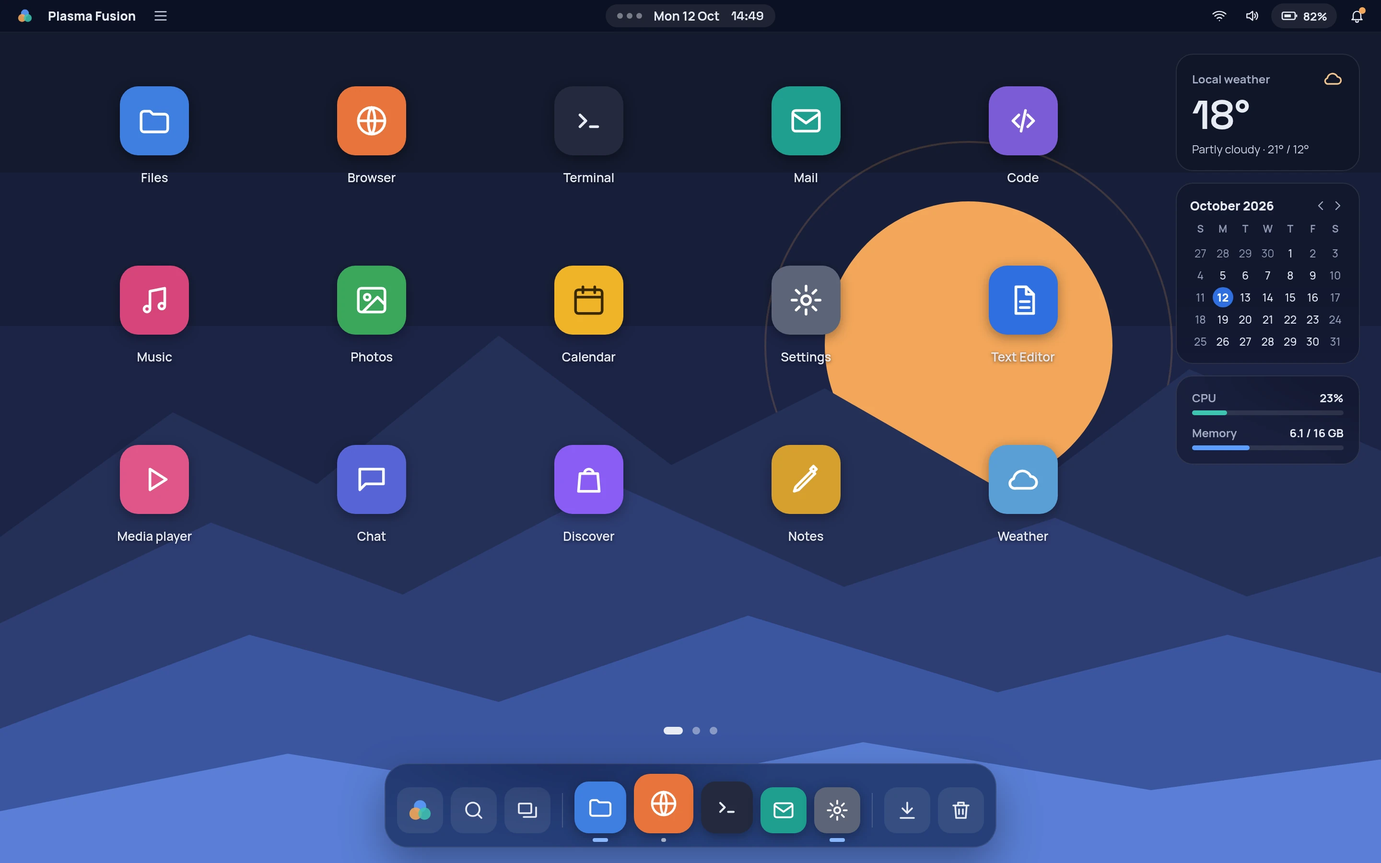
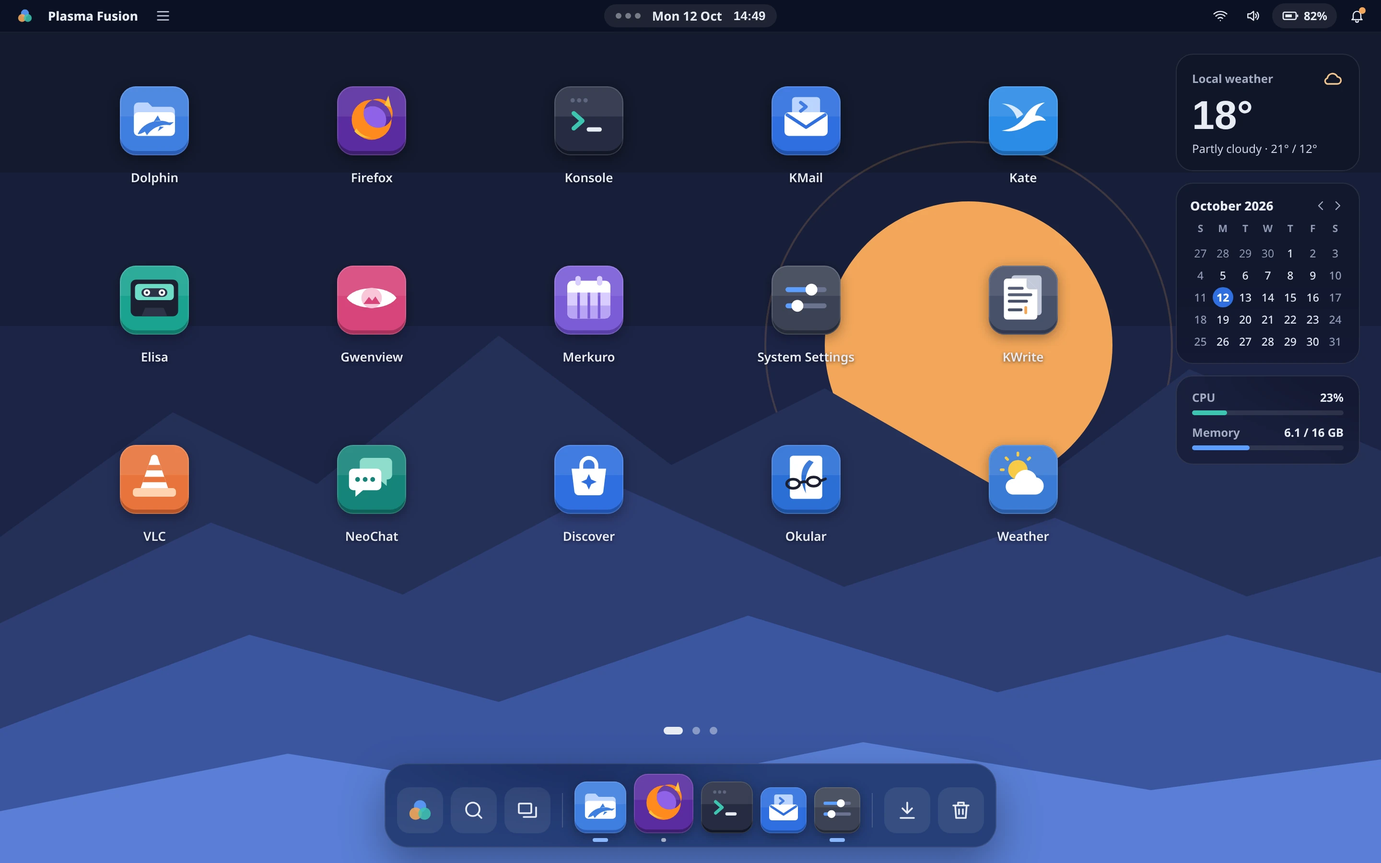
Design: the tablet board draws the redesigned per-app tiles
The first version copied the boards' generic tiles (files, browser,
terminal, ...), which the 2026-10-02 per-app redesign replaced: every app
has its own drawn tile in the same construction (generators/icons/apptiles,
docs/parts/icons.md). The board's grid and dock now embed the real tiles for
the apps it shows (Dolphin, Firefox, Konsole, KMail, Kate, Elisa, Gwenview,
Merkuro, System Settings, KWrite, VLC, NeoChat, Discover, Okular, Weather),
emitted from apptiles.tile_svg() and inlined with one shared sheen gradient;
the preview is re-rendered from them - what the tablet home shows today.

diff --git a/design/boards/Tablet.dc.html b/design/boards/Tablet.dc.html
@@ -15,6 +15,7 @@ a{color:#8ab8ff}a:hover{color:#b9d4ff}
 </head>
 <body>
 <div style="position:relative;width:1440px;height:900px;overflow:hidden;background:#141a2e;color:#e8ebf4;font-size:13px">
+<svg width="0" height="0" aria-hidden="true" style="position:absolute"><defs><linearGradient id="pf-sheen" gradientUnits="userSpaceOnUse" x1="0" y1="0" x2="0" y2="64"><stop offset="0" stop-color="#ffffff" stop-opacity="0.09"/><stop offset="0.4375" stop-color="#ffffff" stop-opacity="0.09"/><stop offset="0.4375" stop-color="#ffffff" stop-opacity="0"/></linearGradient></defs></svg>
 
 <svg width="1440" height="900" viewBox="0 0 1440 900" aria-hidden="true" style="position:absolute;left:0;top:0">
 <rect width="1440" height="900" fill="#141a2e"></rect>
@@ -32,82 +33,81 @@ a{color:#8ab8ff}a:hover{color:#b9d4ff}
 <div aria-label="Home screen, page 1" style="position:absolute;left:48px;top:90px;width:1132px;display:grid;grid-template-columns:repeat(5, minmax(0, 1fr));row-gap:83px;justify-items:center">
 
 <div style="display:flex;flex-direction:column;align-items:center;gap:14px">
-<button aria-label="Files" class="tile" style="width:72px;height:72px;border-radius:19px;background:#3f7fe0;color:#ffffff;display:flex;align-items:center;justify-content:center"><svg class="i" width="37" height="37" viewBox="0 0 24 24"><path d="M3 7.5A2 2 0 0 1 5 5.5h4l2 2h8a2 2 0 0 1 2 2v8a2 2 0 0 1-2 2H5a2 2 0 0 1-2-2z"></path></svg></button>
-<span style="font-size:13px;font-weight:600;text-shadow:0 1px 3px rgba(0,0,0,0.55)">Files</span>
+<button aria-label="Dolphin" class="tile" style="width:72px;height:72px;border-radius:19px"><svg xmlns="http://www.w3.org/2000/svg" width="72" height="72" viewBox="0 0 64 64"><path d="M15 0h34a15 15 0 0 1 15 15v34a15 15 0 0 1 -15 15h-34a15 15 0 0 1 -15 -15v-34a15 15 0 0 1 15 -15z" fill="#2b5db5"/><path d="M15 0h34a15 15 0 0 1 15 15v30a15 15 0 0 1 -15 15h-34a15 15 0 0 1 -15 -15v-30a15 15 0 0 1 15 -15z" fill="#3f7fe0"/><path d="M15 0h34a15 15 0 0 1 15 15v13H0V15A15 15 0 0 1 15 0z" fill="#ffffff" fill-opacity="0.09"/><path d="M13 19a4 4 0 0 1 4-4h9l4 4h17a4 4 0 0 1 4 4v19H13z" fill="#bcd4ff"/><path fill-rule="evenodd" d="M17 24h30a4 4 0 0 1 4 4v14a4 4 0 0 1 -4 4h-30a4 4 0 0 1 -4 -4v-14a4 4 0 0 1 4 -4z" fill="#ffffff"/><path fill-rule="evenodd" d="M16.5 44.5c3-7 10-11.5 18.5-12.5 4-.4 7.5.3 10.5 1.6l4.5-.4-3.4 2.8c-4.4-.7-9 0-13 2-3.6 1.8-6.5 4.4-8.5 7.4l-1.9-3.4c-2.4 1.5-4.6 2.3-6.7 2.5zM31.5 32.6l3.6-5.6 2.8 5.1zM37 37.2l-1.8 4.6 5.6-4.1z" fill="#3f7fe0"/><path d="M16.5 44.5c3-7 10-11.5 18.5-12.5 4-.4 7.5.3 10.5 1.6l4.5-.4-3.4 2.8c-4.4-.7-9 0-13 2-3.6 1.8-6.5 4.4-8.5 7.4l-1.9-3.4c-2.4 1.5-4.6 2.3-6.7 2.5zM31.5 32.6l3.6-5.6 2.8 5.1zM37 37.2l-1.8 4.6 5.6-4.1z" fill="url(#pf-sheen)" fill-rule="evenodd"/><path d="M15 0.5h34a14.5 14.5 0 0 1 14.5 14.5v34a14.5 14.5 0 0 1 -14.5 14.5h-34a14.5 14.5 0 0 1 -14.5 -14.5v-34a14.5 14.5 0 0 1 14.5 -14.5z" fill="none" stroke="#ffffff" stroke-opacity="0.14" stroke-width="1" stroke-linecap="butt" stroke-linejoin="miter"/></svg></button>
+<span style="font-size:13px;font-weight:600;text-shadow:0 1px 3px rgba(0,0,0,0.55)">Dolphin</span>
 </div>
 
 <div style="display:flex;flex-direction:column;align-items:center;gap:14px">
-<button aria-label="Browser" class="tile" style="width:72px;height:72px;border-radius:19px;background:#e8743b;color:#ffffff;display:flex;align-items:center;justify-content:center"><svg class="i" width="37" height="37" viewBox="0 0 24 24"><path d="M3 12a9 9 0 1 0 18 0a9 9 0 1 0-18 0M3 12h18M12 3c3 3.5 3 14.5 0 18M12 3c-3 3.5-3 14.5 0 18"></path></svg></button>
-<span style="font-size:13px;font-weight:600;text-shadow:0 1px 3px rgba(0,0,0,0.55)">Browser</span>
+<button aria-label="Firefox" class="tile" style="width:72px;height:72px;border-radius:19px"><svg xmlns="http://www.w3.org/2000/svg" width="72" height="72" viewBox="0 0 64 64"><path d="M15 0h34a15 15 0 0 1 15 15v34a15 15 0 0 1 -15 15h-34a15 15 0 0 1 -15 -15v-34a15 15 0 0 1 15 -15z" fill="#3e1e70"/><path d="M15 0h34a15 15 0 0 1 15 15v30a15 15 0 0 1 -15 15h-34a15 15 0 0 1 -15 -15v-30a15 15 0 0 1 15 -15z" fill="#5a2ca0"/><path d="M15 0h34a15 15 0 0 1 15 15v13H0V15A15 15 0 0 1 15 0z" fill="#ffffff" fill-opacity="0.09"/><path d="M20.5 31a12.5 12.5 0 1 0 25 0a12.5 12.5 0 1 0 -25 0z" fill="#8f63e8"/><path fill-rule="evenodd" d="M13.5 31a18.5 18.5 0 1 0 37 0a18.5 18.5 0 1 0 -37 0zM24.5 25a13.5 13.5 0 1 0 27 0a13.5 13.5 0 1 0 -27 0z" fill="#ff8a1f"/><path fill-rule="evenodd" d="M44 17.5l3.5-9 2.5 11zM18 39c3 5 8 8 14 8.5-7 1-13-2-16-6z" fill="#ffc23d"/><path d="M15 0.5h34a14.5 14.5 0 0 1 14.5 14.5v34a14.5 14.5 0 0 1 -14.5 14.5h-34a14.5 14.5 0 0 1 -14.5 -14.5v-34a14.5 14.5 0 0 1 14.5 -14.5z" fill="none" stroke="#ffffff" stroke-opacity="0.14" stroke-width="1" stroke-linecap="butt" stroke-linejoin="miter"/></svg></button>
+<span style="font-size:13px;font-weight:600;text-shadow:0 1px 3px rgba(0,0,0,0.55)">Firefox</span>
 </div>
 
 <div style="display:flex;flex-direction:column;align-items:center;gap:14px">
-<button aria-label="Terminal" class="tile" style="width:72px;height:72px;border-radius:19px;background:#23293d;color:#e8ebf4;display:flex;align-items:center;justify-content:center"><svg class="i" width="37" height="37" viewBox="0 0 24 24"><path d="M6 8l4 4-4 4M13 16h5"></path></svg></button>
-<span style="font-size:13px;font-weight:600;text-shadow:0 1px 3px rgba(0,0,0,0.55)">Terminal</span>
+<button aria-label="Konsole" class="tile" style="width:72px;height:72px;border-radius:19px"><svg xmlns="http://www.w3.org/2000/svg" width="72" height="72" viewBox="0 0 64 64"><path d="M15 0h34a15 15 0 0 1 15 15v34a15 15 0 0 1 -15 15h-34a15 15 0 0 1 -15 -15v-34a15 15 0 0 1 15 -15z" fill="#131726"/><path d="M15 0h34a15 15 0 0 1 15 15v30a15 15 0 0 1 -15 15h-34a15 15 0 0 1 -15 -15v-30a15 15 0 0 1 15 -15z" fill="#262c42"/><path d="M15 0h34a15 15 0 0 1 15 15v13H0V15A15 15 0 0 1 15 0z" fill="#ffffff" fill-opacity="0.09"/><path d="M32 38h10a2 2 0 0 1 2 2v0a2 2 0 0 1 -2 2h-10a2 2 0 0 1 -2 -2v0a2 2 0 0 1 2 -2z" fill="#e8ebf4"/><path fill-rule="evenodd" d="M15 13a2 2 0 1 0 4 0a2 2 0 1 0 -4 0zM21 13a2 2 0 1 0 4 0a2 2 0 1 0 -4 0zM27 13a2 2 0 1 0 4 0a2 2 0 1 0 -4 0z" fill="#5d6680"/><path d="M18 25l8 7-8 7" fill="none" stroke="#3cc4b0" stroke-width="4" stroke-linecap="round" stroke-linejoin="round"/><path d="M15 0.5h34a14.5 14.5 0 0 1 14.5 14.5v34a14.5 14.5 0 0 1 -14.5 14.5h-34a14.5 14.5 0 0 1 -14.5 -14.5v-34a14.5 14.5 0 0 1 14.5 -14.5z" fill="none" stroke="#ffffff" stroke-opacity="0.14" stroke-width="1" stroke-linecap="butt" stroke-linejoin="miter"/></svg></button>
+<span style="font-size:13px;font-weight:600;text-shadow:0 1px 3px rgba(0,0,0,0.55)">Konsole</span>
 </div>
 
 <div style="display:flex;flex-direction:column;align-items:center;gap:14px">
-<button aria-label="Mail" class="tile" style="width:72px;height:72px;border-radius:19px;background:#1f9e8f;color:#ffffff;display:flex;align-items:center;justify-content:center"><svg class="i" width="37" height="37" viewBox="0 0 24 24"><path d="M5 5h14a2 2 0 0 1 2 2v10a2 2 0 0 1-2 2H5a2 2 0 0 1-2-2V7a2 2 0 0 1 2-2zM3.5 7.5l8.5 6 8.5-6"></path></svg></button>
-<span style="font-size:13px;font-weight:600;text-shadow:0 1px 3px rgba(0,0,0,0.55)">Mail</span>
+<button aria-label="KMail" class="tile" style="width:72px;height:72px;border-radius:19px"><svg xmlns="http://www.w3.org/2000/svg" width="72" height="72" viewBox="0 0 64 64"><path d="M15 0h34a15 15 0 0 1 15 15v34a15 15 0 0 1 -15 15h-34a15 15 0 0 1 -15 -15v-34a15 15 0 0 1 15 -15z" fill="#2152ad"/><path d="M15 0h34a15 15 0 0 1 15 15v30a15 15 0 0 1 -15 15h-34a15 15 0 0 1 -15 -15v-30a15 15 0 0 1 15 -15z" fill="#2f6fdf"/><path d="M15 0h34a15 15 0 0 1 15 15v13H0V15A15 15 0 0 1 15 0z" fill="#ffffff" fill-opacity="0.09"/><path d="M22 10h20a3 3 0 0 1 3 3v18a3 3 0 0 1 -3 3h-20a3 3 0 0 1 -3 -3v-18a3 3 0 0 1 3 -3z" fill="#bcd4ff"/><path fill-rule="evenodd" d="M16 24h32a4 4 0 0 1 4 4v14a4 4 0 0 1 -4 4h-32a4 4 0 0 1 -4 -4v-14a4 4 0 0 1 4 -4z" fill="#ffffff"/><path d="M14.5 26.5 32 38l17.5-11.5M27 15l5 4-5 4" fill="none" stroke="#2f6fdf" stroke-width="3" stroke-linecap="round" stroke-linejoin="round"/><path d="M14.5 26.5 32 38l17.5-11.5M27 15l5 4-5 4" fill="none" stroke="url(#pf-sheen)" stroke-width="3" stroke-linecap="round" stroke-linejoin="round"/><path d="M15 0.5h34a14.5 14.5 0 0 1 14.5 14.5v34a14.5 14.5 0 0 1 -14.5 14.5h-34a14.5 14.5 0 0 1 -14.5 -14.5v-34a14.5 14.5 0 0 1 14.5 -14.5z" fill="none" stroke="#ffffff" stroke-opacity="0.14" stroke-width="1" stroke-linecap="butt" stroke-linejoin="miter"/></svg></button>
+<span style="font-size:13px;font-weight:600;text-shadow:0 1px 3px rgba(0,0,0,0.55)">KMail</span>
 </div>
 
 <div style="display:flex;flex-direction:column;align-items:center;gap:14px">
-<button aria-label="Code" class="tile" style="width:72px;height:72px;border-radius:19px;background:#7b5cd6;color:#ffffff;display:flex;align-items:center;justify-content:center"><svg class="i" width="37" height="37" viewBox="0 0 24 24"><path d="M9 8l-4 4 4 4M15 8l4 4-4 4M13.5 5l-3 14"></path></svg></button>
-<span style="font-size:13px;font-weight:600;text-shadow:0 1px 3px rgba(0,0,0,0.55)">Code</span>
+<button aria-label="Kate" class="tile" style="width:72px;height:72px;border-radius:19px"><svg xmlns="http://www.w3.org/2000/svg" width="72" height="72" viewBox="0 0 64 64"><path d="M15 0h34a15 15 0 0 1 15 15v34a15 15 0 0 1 -15 15h-34a15 15 0 0 1 -15 -15v-34a15 15 0 0 1 15 -15z" fill="#1f68b3"/><path d="M15 0h34a15 15 0 0 1 15 15v30a15 15 0 0 1 -15 15h-34a15 15 0 0 1 -15 -15v-30a15 15 0 0 1 15 -15z" fill="#2b8be6"/><path d="M15 0h34a15 15 0 0 1 15 15v13H0V15A15 15 0 0 1 15 0z" fill="#ffffff" fill-opacity="0.09"/><path d="M12 41c9-1 17-6 22-14 4-6 9-11 18-12-5 3-8 7-9 12 5 0 8 2 10 5-6-1-11 0-15 3-7 5-16 8-26 6z" fill="#ffffff"/><path fill-rule="evenodd" d="M26 30c-2-7-7-12-14-14 9 0 16 4 20 10z" fill="#d6e8fb"/><path d="M15 0.5h34a14.5 14.5 0 0 1 14.5 14.5v34a14.5 14.5 0 0 1 -14.5 14.5h-34a14.5 14.5 0 0 1 -14.5 -14.5v-34a14.5 14.5 0 0 1 14.5 -14.5z" fill="none" stroke="#ffffff" stroke-opacity="0.14" stroke-width="1" stroke-linecap="butt" stroke-linejoin="miter"/></svg></button>
+<span style="font-size:13px;font-weight:600;text-shadow:0 1px 3px rgba(0,0,0,0.55)">Kate</span>
 </div>
 
 <div style="display:flex;flex-direction:column;align-items:center;gap:14px">
-<button aria-label="Music" class="tile" style="width:72px;height:72px;border-radius:19px;background:#d6457a;color:#ffffff;display:flex;align-items:center;justify-content:center"><svg class="i" width="37" height="37" viewBox="0 0 24 24"><path d="M9 18V6l10-2v12M5 18a2 2 0 1 0 4 0a2 2 0 1 0-4 0M15 16a2 2 0 1 0 4 0a2 2 0 1 0-4 0"></path></svg></button>
-<span style="font-size:13px;font-weight:600;text-shadow:0 1px 3px rgba(0,0,0,0.55)">Music</span>
+<button aria-label="Elisa" class="tile" style="width:72px;height:72px;border-radius:19px"><svg xmlns="http://www.w3.org/2000/svg" width="72" height="72" viewBox="0 0 64 64"><path d="M15 0h34a15 15 0 0 1 15 15v34a15 15 0 0 1 -15 15h-34a15 15 0 0 1 -15 -15v-34a15 15 0 0 1 15 -15z" fill="#127a6c"/><path d="M15 0h34a15 15 0 0 1 15 15v30a15 15 0 0 1 -15 15h-34a15 15 0 0 1 -15 -15v-30a15 15 0 0 1 15 -15z" fill="#1aa391"/><path d="M15 0h34a15 15 0 0 1 15 15v13H0V15A15 15 0 0 1 15 0z" fill="#ffffff" fill-opacity="0.09"/><path d="M15 13h34a5 5 0 0 1 5 5v24a5 5 0 0 1 -5 5h-34a5 5 0 0 1 -5 -5v-24a5 5 0 0 1 5 -5z" fill="#1b2031"/><path fill-rule="evenodd" d="M17.5 17h29a3.5 3.5 0 0 1 3.5 3.5v8a3.5 3.5 0 0 1 -3.5 3.5h-29a3.5 3.5 0 0 1 -3.5 -3.5v-8a3.5 3.5 0 0 1 3.5 -3.5z" fill="#6fdcc8"/><path fill-rule="evenodd" d="M24 21h16a4 4 0 0 1 4 4v0a4 4 0 0 1 -4 4h-16a4 4 0 0 1 -4 -4v0a4 4 0 0 1 4 -4zM20 47l3.5-8h17l3.5 8z" fill="#2c3348"/><path d="M22 25a3 3 0 1 0 6 0a3 3 0 1 0 -6 0zM36 25a3 3 0 1 0 6 0a3 3 0 1 0 -6 0z" fill="#ffffff"/><path d="M23.8 25a1.2 1.2 0 1 0 2.4 0a1.2 1.2 0 1 0 -2.4 0zM37.8 25a1.2 1.2 0 1 0 2.4 0a1.2 1.2 0 1 0 -2.4 0z" fill="#2c3348"/><path d="M15 0.5h34a14.5 14.5 0 0 1 14.5 14.5v34a14.5 14.5 0 0 1 -14.5 14.5h-34a14.5 14.5 0 0 1 -14.5 -14.5v-34a14.5 14.5 0 0 1 14.5 -14.5z" fill="none" stroke="#ffffff" stroke-opacity="0.14" stroke-width="1" stroke-linecap="butt" stroke-linejoin="miter"/></svg></button>
+<span style="font-size:13px;font-weight:600;text-shadow:0 1px 3px rgba(0,0,0,0.55)">Elisa</span>
 </div>
 
 <div style="display:flex;flex-direction:column;align-items:center;gap:14px">
-<button aria-label="Photos" class="tile" style="width:72px;height:72px;border-radius:19px;background:#3aa65b;color:#ffffff;display:flex;align-items:center;justify-content:center"><svg class="i" width="37" height="37" viewBox="0 0 24 24"><path d="M5 4h14a2 2 0 0 1 2 2v12a2 2 0 0 1-2 2H5a2 2 0 0 1-2-2V6a2 2 0 0 1 2-2zM7 10a2 2 0 1 0 4 0a2 2 0 1 0-4 0M21 15l-5-5-10 10"></path></svg></button>
-<span style="font-size:13px;font-weight:600;text-shadow:0 1px 3px rgba(0,0,0,0.55)">Photos</span>
+<button aria-label="Gwenview" class="tile" style="width:72px;height:72px;border-radius:19px"><svg xmlns="http://www.w3.org/2000/svg" width="72" height="72" viewBox="0 0 64 64"><path d="M15 0h34a15 15 0 0 1 15 15v34a15 15 0 0 1 -15 15h-34a15 15 0 0 1 -15 -15v-34a15 15 0 0 1 15 -15z" fill="#a8325d"/><path d="M15 0h34a15 15 0 0 1 15 15v30a15 15 0 0 1 -15 15h-34a15 15 0 0 1 -15 -15v-30a15 15 0 0 1 15 -15z" fill="#d6457a"/><path d="M15 0h34a15 15 0 0 1 15 15v13H0V15A15 15 0 0 1 15 0z" fill="#ffffff" fill-opacity="0.09"/><path d="M9 30c8-12 38-12 46 0-8 12-38 12-46 0z" fill="#ffffff"/><path fill-rule="evenodd" d="M22.5 30a9.5 9.5 0 1 0 19 0a9.5 9.5 0 1 0 -19 0z" fill="#f8c6d8"/><path fill-rule="evenodd" d="M24.5 35.5l5-6.5 3 3.5 3-4 4.5 7z" fill="#d6457a"/><path d="M24.5 35.5l5-6.5 3 3.5 3-4 4.5 7z" fill="url(#pf-sheen)" fill-rule="evenodd"/><path d="M15 0.5h34a14.5 14.5 0 0 1 14.5 14.5v34a14.5 14.5 0 0 1 -14.5 14.5h-34a14.5 14.5 0 0 1 -14.5 -14.5v-34a14.5 14.5 0 0 1 14.5 -14.5z" fill="none" stroke="#ffffff" stroke-opacity="0.14" stroke-width="1" stroke-linecap="butt" stroke-linejoin="miter"/></svg></button>
+<span style="font-size:13px;font-weight:600;text-shadow:0 1px 3px rgba(0,0,0,0.55)">Gwenview</span>
 </div>
 
 <div style="display:flex;flex-direction:column;align-items:center;gap:14px">
-<button aria-label="Calendar" class="tile" style="width:72px;height:72px;border-radius:19px;background:#f0b429;color:#3a2a00;display:flex;align-items:center;justify-content:center"><svg class="i" width="37" height="37" viewBox="0 0 24 24"><path d="M5 5h14a2 2 0 0 1 2 2v12a2 2 0 0 1-2 2H5a2 2 0 0 1-2-2V7a2 2 0 0 1 2-2zM3 10h18M8 3v4M16 3v4"></path></svg></button>
-<span style="font-size:13px;font-weight:600;text-shadow:0 1px 3px rgba(0,0,0,0.55)">Calendar</span>
+<button aria-label="Merkuro" class="tile" style="width:72px;height:72px;border-radius:19px"><svg xmlns="http://www.w3.org/2000/svg" width="72" height="72" viewBox="0 0 64 64"><path d="M15 0h34a15 15 0 0 1 15 15v34a15 15 0 0 1 -15 15h-34a15 15 0 0 1 -15 -15v-34a15 15 0 0 1 15 -15z" fill="#5a40a8"/><path d="M15 0h34a15 15 0 0 1 15 15v30a15 15 0 0 1 -15 15h-34a15 15 0 0 1 -15 -15v-30a15 15 0 0 1 15 -15z" fill="#7b5cd6"/><path d="M15 0h34a15 15 0 0 1 15 15v13H0V15A15 15 0 0 1 15 0z" fill="#ffffff" fill-opacity="0.09"/><path d="M17 14h30a5 5 0 0 1 5 5v25a5 5 0 0 1 -5 5h-30a5 5 0 0 1 -5 -5v-25a5 5 0 0 1 5 -5z" fill="#ffffff"/><path fill-rule="evenodd" d="M12 25H52V44a5 5 0 0 1-5 5H17a5 5 0 0 1-5-5z" fill="#d9ccff"/><path fill-rule="evenodd" d="M12 37H52V44a5 5 0 0 1-5 5H17a5 5 0 0 1-5-5z" fill="#b8a4f4"/><path d="M21.3 25h2.4a0 0 0 0 1 0 0v24a0 0 0 0 1 0 0h-2.4a0 0 0 0 1 0 0v-24a0 0 0 0 1 0 0zM30.8 25h2.4a0 0 0 0 1 0 0v24a0 0 0 0 1 0 0h-2.4a0 0 0 0 1 0 0v-24a0 0 0 0 1 0 0zM40.3 25h2.4a0 0 0 0 1 0 0v24a0 0 0 0 1 0 0h-2.4a0 0 0 0 1 0 0v-24a0 0 0 0 1 0 0z" fill="#7b5cd6"/><path d="M22 9.5h0a2.5 2.5 0 0 1 2.5 2.5v4a2.5 2.5 0 0 1 -2.5 2.5h0a2.5 2.5 0 0 1 -2.5 -2.5v-4a2.5 2.5 0 0 1 2.5 -2.5zM42 9.5h0a2.5 2.5 0 0 1 2.5 2.5v4a2.5 2.5 0 0 1 -2.5 2.5h0a2.5 2.5 0 0 1 -2.5 -2.5v-4a2.5 2.5 0 0 1 2.5 -2.5z" fill="#d9ccff"/><path d="M21.3 25h2.4a0 0 0 0 1 0 0v24a0 0 0 0 1 0 0h-2.4a0 0 0 0 1 0 0v-24a0 0 0 0 1 0 0zM30.8 25h2.4a0 0 0 0 1 0 0v24a0 0 0 0 1 0 0h-2.4a0 0 0 0 1 0 0v-24a0 0 0 0 1 0 0zM40.3 25h2.4a0 0 0 0 1 0 0v24a0 0 0 0 1 0 0h-2.4a0 0 0 0 1 0 0v-24a0 0 0 0 1 0 0z" fill="url(#pf-sheen)"/><path d="M15 0.5h34a14.5 14.5 0 0 1 14.5 14.5v34a14.5 14.5 0 0 1 -14.5 14.5h-34a14.5 14.5 0 0 1 -14.5 -14.5v-34a14.5 14.5 0 0 1 14.5 -14.5z" fill="none" stroke="#ffffff" stroke-opacity="0.14" stroke-width="1" stroke-linecap="butt" stroke-linejoin="miter"/></svg></button>
+<span style="font-size:13px;font-weight:600;text-shadow:0 1px 3px rgba(0,0,0,0.55)">Merkuro</span>
 </div>
 
 <div style="display:flex;flex-direction:column;align-items:center;gap:14px">
-<button aria-label="Settings" class="tile" style="width:72px;height:72px;border-radius:19px;background:#5b6478;color:#ffffff;display:flex;align-items:center;justify-content:center"><svg class="i" width="37" height="37" viewBox="0 0 24 24"><path d="M9 12a3 3 0 1 0 6 0a3 3 0 1 0-6 0M12 2.5v3M12 18.5v3M2.5 12h3M18.5 12h3M5.3 5.3l2.1 2.1M16.6 16.6l2.1 2.1M5.3 18.7l2.1-2.1M16.6 7.4l2.1-2.1"></path></svg></button>
-<span style="font-size:13px;font-weight:600;text-shadow:0 1px 3px rgba(0,0,0,0.55)">Settings</span>
+<button aria-label="System Settings" class="tile" style="width:72px;height:72px;border-radius:19px"><svg xmlns="http://www.w3.org/2000/svg" width="72" height="72" viewBox="0 0 64 64"><path d="M15 0h34a15 15 0 0 1 15 15v34a15 15 0 0 1 -15 15h-34a15 15 0 0 1 -15 -15v-34a15 15 0 0 1 15 -15z" fill="#262b38"/><path d="M15 0h34a15 15 0 0 1 15 15v30a15 15 0 0 1 -15 15h-34a15 15 0 0 1 -15 -15v-30a15 15 0 0 1 15 -15z" fill="#3b4255"/><path d="M15 0h34a15 15 0 0 1 15 15v13H0V15A15 15 0 0 1 15 0z" fill="#ffffff" fill-opacity="0.09"/><path d="M15.25 20h33.5a2.25 2.25 0 0 1 2.25 2.25v0a2.25 2.25 0 0 1 -2.25 2.25h-33.5a2.25 2.25 0 0 1 -2.25 -2.25v0a2.25 2.25 0 0 1 2.25 -2.25zM15.25 35h33.5a2.25 2.25 0 0 1 2.25 2.25v0a2.25 2.25 0 0 1 -2.25 2.25h-33.5a2.25 2.25 0 0 1 -2.25 -2.25v0a2.25 2.25 0 0 1 2.25 -2.25z" fill="#6b7490"/><path fill-rule="evenodd" d="M15.25 20h19.5a2.25 2.25 0 0 1 2.25 2.25v0a2.25 2.25 0 0 1 -2.25 2.25h-19.5a2.25 2.25 0 0 1 -2.25 -2.25v0a2.25 2.25 0 0 1 2.25 -2.25zM15.25 35h6.5a2.25 2.25 0 0 1 2.25 2.25v0a2.25 2.25 0 0 1 -2.25 2.25h-6.5a2.25 2.25 0 0 1 -2.25 -2.25v0a2.25 2.25 0 0 1 2.25 -2.25z" fill="#5b9dff"/><path fill-rule="evenodd" d="M31.5 22.25a5.5 5.5 0 1 0 11 0a5.5 5.5 0 1 0 -11 0zM18.5 37.25a5.5 5.5 0 1 0 11 0a5.5 5.5 0 1 0 -11 0z" fill="#ffffff"/><path d="M15 0.5h34a14.5 14.5 0 0 1 14.5 14.5v34a14.5 14.5 0 0 1 -14.5 14.5h-34a14.5 14.5 0 0 1 -14.5 -14.5v-34a14.5 14.5 0 0 1 14.5 -14.5z" fill="none" stroke="#ffffff" stroke-opacity="0.14" stroke-width="1" stroke-linecap="butt" stroke-linejoin="miter"/></svg></button>
+<span style="font-size:13px;font-weight:600;text-shadow:0 1px 3px rgba(0,0,0,0.55)">System Settings</span>
 </div>
 
 <div style="display:flex;flex-direction:column;align-items:center;gap:14px">
-<button aria-label="Text Editor" class="tile" style="width:72px;height:72px;border-radius:19px;background:#2f6fdf;color:#ffffff;display:flex;align-items:center;justify-content:center"><svg class="i" width="37" height="37" viewBox="0 0 24 24"><path d="M7 3h7l5 5v13H7zM14 3v5h5M10 13h6M10 17h6"></path></svg></button>
-<span style="font-size:13px;font-weight:600;text-shadow:0 1px 3px rgba(0,0,0,0.55)">Text Editor</span>
+<button aria-label="KWrite" class="tile" style="width:72px;height:72px;border-radius:19px"><svg xmlns="http://www.w3.org/2000/svg" width="72" height="72" viewBox="0 0 64 64"><path d="M15 0h34a15 15 0 0 1 15 15v34a15 15 0 0 1 -15 15h-34a15 15 0 0 1 -15 -15v-34a15 15 0 0 1 15 -15z" fill="#323950"/><path d="M15 0h34a15 15 0 0 1 15 15v30a15 15 0 0 1 -15 15h-34a15 15 0 0 1 -15 -15v-30a15 15 0 0 1 15 -15z" fill="#475069"/><path d="M15 0h34a15 15 0 0 1 15 15v13H0V15A15 15 0 0 1 15 0z" fill="#ffffff" fill-opacity="0.09"/><path d="M24 9h22a3 3 0 0 1 3 3v31a3 3 0 0 1 -3 3h-22a3 3 0 0 1 -3 -3v-31a3 3 0 0 1 3 -3z" fill="#c3c9d9"/><path fill-rule="evenodd" d="M17 12h18l10 10v25a3 3 0 0 1-3 3H17a3 3 0 0 1-3-3V15a3 3 0 0 1 3-3z" fill="#ffffff"/><path d="M19 21h12M19 27h20M19 33h16M19 41h11" fill="none" stroke="#475069" stroke-width="2.6" stroke-linecap="round" stroke-linejoin="round"/><path fill-rule="evenodd" d="M34.3 37.5h0a1.3 1.3 0 0 1 1.3 1.3v4.9a1.3 1.3 0 0 1 -1.3 1.3h0a1.3 1.3 0 0 1 -1.3 -1.3v-4.9a1.3 1.3 0 0 1 1.3 -1.3z" fill="#f2a65a"/><path d="M35 12v7a3 3 0 0 0 3 3h7z" fill="#c3c9d9"/><path d="M19 21h12M19 27h20M19 33h16M19 41h11" fill="none" stroke="url(#pf-sheen)" stroke-width="2.6" stroke-linecap="round" stroke-linejoin="round"/><path d="M15 0.5h34a14.5 14.5 0 0 1 14.5 14.5v34a14.5 14.5 0 0 1 -14.5 14.5h-34a14.5 14.5 0 0 1 -14.5 -14.5v-34a14.5 14.5 0 0 1 14.5 -14.5z" fill="none" stroke="#ffffff" stroke-opacity="0.14" stroke-width="1" stroke-linecap="butt" stroke-linejoin="miter"/></svg></button>
+<span style="font-size:13px;font-weight:600;text-shadow:0 1px 3px rgba(0,0,0,0.55)">KWrite</span>
 </div>
 
 <div style="display:flex;flex-direction:column;align-items:center;gap:14px">
-<button aria-label="Media player" class="tile" style="width:72px;height:72px;border-radius:19px;background:#e0568a;color:#ffffff;display:flex;align-items:center;justify-content:center"><svg class="i" width="37" height="37" viewBox="0 0 24 24"><path d="M9 5l11 7-11 7z"></path></svg></button>
-<span style="font-size:13px;font-weight:600;text-shadow:0 1px 3px rgba(0,0,0,0.55)">Media player</span>
+<button aria-label="VLC" class="tile" style="width:72px;height:72px;border-radius:19px"><svg xmlns="http://www.w3.org/2000/svg" width="72" height="72" viewBox="0 0 64 64"><path d="M15 0h34a15 15 0 0 1 15 15v34a15 15 0 0 1 -15 15h-34a15 15 0 0 1 -15 -15v-34a15 15 0 0 1 15 -15z" fill="#b8552a"/><path d="M15 0h34a15 15 0 0 1 15 15v30a15 15 0 0 1 -15 15h-34a15 15 0 0 1 -15 -15v-30a15 15 0 0 1 15 -15z" fill="#e8743b"/><path d="M15 0h34a15 15 0 0 1 15 15v13H0V15A15 15 0 0 1 15 0z" fill="#ffffff" fill-opacity="0.09"/><path d="M28.6 12.5A3.4 3.4 0 0 1 35.4 12.5L45 41H19z" fill="#ffffff"/><path fill-rule="evenodd" d="M15 40h34a3 3 0 0 1 3 3v2a3 3 0 0 1 -3 3h-34a3 3 0 0 1 -3 -3v-2a3 3 0 0 1 3 -3z" fill="#ffd2b0"/><path fill-rule="evenodd" d="M26.58 18.5L37.42 18.5L39.11 23.5L24.89 23.5zM22.87 29.5L41.13 29.5L42.81 34.5L21.19 34.5z" fill="#e8743b"/><path d="M26.58 18.5L37.42 18.5L39.11 23.5L24.89 23.5zM22.87 29.5L41.13 29.5L42.81 34.5L21.19 34.5z" fill="url(#pf-sheen)" fill-rule="evenodd"/><path d="M15 0.5h34a14.5 14.5 0 0 1 14.5 14.5v34a14.5 14.5 0 0 1 -14.5 14.5h-34a14.5 14.5 0 0 1 -14.5 -14.5v-34a14.5 14.5 0 0 1 14.5 -14.5z" fill="none" stroke="#ffffff" stroke-opacity="0.14" stroke-width="1" stroke-linecap="butt" stroke-linejoin="miter"/></svg></button>
+<span style="font-size:13px;font-weight:600;text-shadow:0 1px 3px rgba(0,0,0,0.55)">VLC</span>
 </div>
 
 <div style="display:flex;flex-direction:column;align-items:center;gap:14px">
-<button aria-label="Chat" class="tile" style="width:72px;height:72px;border-radius:19px;background:#5765d6;color:#ffffff;display:flex;align-items:center;justify-content:center"><svg class="i" width="37" height="37" viewBox="0 0 24 24"><path d="M4 5h16v10H8l-4 4z"></path></svg></button>
-<span style="font-size:13px;font-weight:600;text-shadow:0 1px 3px rgba(0,0,0,0.55)">Chat</span>
+<button aria-label="NeoChat" class="tile" style="width:72px;height:72px;border-radius:19px"><svg xmlns="http://www.w3.org/2000/svg" width="72" height="72" viewBox="0 0 64 64"><path d="M15 0h34a15 15 0 0 1 15 15v34a15 15 0 0 1 -15 15h-34a15 15 0 0 1 -15 -15v-34a15 15 0 0 1 15 -15z" fill="#0f6159"/><path d="M15 0h34a15 15 0 0 1 15 15v30a15 15 0 0 1 -15 15h-34a15 15 0 0 1 -15 -15v-30a15 15 0 0 1 15 -15z" fill="#16847a"/><path d="M15 0h34a15 15 0 0 1 15 15v13H0V15A15 15 0 0 1 15 0z" fill="#ffffff" fill-opacity="0.09"/><path d="M25 12h22a4 4 0 0 1 4 4v12a4 4 0 0 1-4 4h-1v6l-7-6H25a4 4 0 0 1-4-4V16a4 4 0 0 1 4-4z" fill="#8fdccc"/><path fill-rule="evenodd" d="M15 22h22a4 4 0 0 1 4 4v12a4 4 0 0 1-4 4H24l-7 6v-6h-2a4 4 0 0 1-4-4V26a4 4 0 0 1 4-4z" fill="#ffffff"/><path fill-rule="evenodd" d="M16.8 32a2.2 2.2 0 1 0 4.4 0a2.2 2.2 0 1 0 -4.4 0zM23.8 32a2.2 2.2 0 1 0 4.4 0a2.2 2.2 0 1 0 -4.4 0zM30.8 32a2.2 2.2 0 1 0 4.4 0a2.2 2.2 0 1 0 -4.4 0z" fill="#16847a"/><path d="M16.8 32a2.2 2.2 0 1 0 4.4 0a2.2 2.2 0 1 0 -4.4 0zM23.8 32a2.2 2.2 0 1 0 4.4 0a2.2 2.2 0 1 0 -4.4 0zM30.8 32a2.2 2.2 0 1 0 4.4 0a2.2 2.2 0 1 0 -4.4 0z" fill="url(#pf-sheen)" fill-rule="evenodd"/><path d="M15 0.5h34a14.5 14.5 0 0 1 14.5 14.5v34a14.5 14.5 0 0 1 -14.5 14.5h-34a14.5 14.5 0 0 1 -14.5 -14.5v-34a14.5 14.5 0 0 1 14.5 -14.5z" fill="none" stroke="#ffffff" stroke-opacity="0.14" stroke-width="1" stroke-linecap="butt" stroke-linejoin="miter"/></svg></button>
+<span style="font-size:13px;font-weight:600;text-shadow:0 1px 3px rgba(0,0,0,0.55)">NeoChat</span>
 </div>
 
 <div style="display:flex;flex-direction:column;align-items:center;gap:14px">
-<button aria-label="Discover" class="tile" style="width:72px;height:72px;border-radius:19px;background:#8a5cf5;color:#ffffff;display:flex;align-items:center;justify-content:center"><svg class="i" width="37" height="37" viewBox="0 0 24 24"><path d="M6 8h12l1 12H5zM9 8a3 3 0 0 1 6 0"></path></svg></button>
+<button aria-label="Discover" class="tile" style="width:72px;height:72px;border-radius:19px"><svg xmlns="http://www.w3.org/2000/svg" width="72" height="72" viewBox="0 0 64 64"><path d="M15 0h34a15 15 0 0 1 15 15v34a15 15 0 0 1 -15 15h-34a15 15 0 0 1 -15 -15v-34a15 15 0 0 1 15 -15z" fill="#2152ad"/><path d="M15 0h34a15 15 0 0 1 15 15v30a15 15 0 0 1 -15 15h-34a15 15 0 0 1 -15 -15v-30a15 15 0 0 1 15 -15z" fill="#2f6fdf"/><path d="M15 0h34a15 15 0 0 1 15 15v13H0V15A15 15 0 0 1 15 0z" fill="#ffffff" fill-opacity="0.09"/><path d="M16 22h32l-2.6 21.2a4 4 0 0 1-4 3.5H22.6a4 4 0 0 1-4-3.5z" fill="#ffffff"/><path d="M25 22v-3a7 7 0 0 1 14 0v3" fill="none" stroke="#ffffff" stroke-width="3.5" stroke-linecap="round" stroke-linejoin="round"/><path fill-rule="evenodd" d="M32 27l2.2 5 5 2.2-5 2.2-2.2 5-2.2-5-5-2.2 5-2.2z" fill="#2f6fdf"/><path d="M32 27l2.2 5 5 2.2-5 2.2-2.2 5-2.2-5-5-2.2 5-2.2z" fill="url(#pf-sheen)" fill-rule="evenodd"/><path d="M15 0.5h34a14.5 14.5 0 0 1 14.5 14.5v34a14.5 14.5 0 0 1 -14.5 14.5h-34a14.5 14.5 0 0 1 -14.5 -14.5v-34a14.5 14.5 0 0 1 14.5 -14.5z" fill="none" stroke="#ffffff" stroke-opacity="0.14" stroke-width="1" stroke-linecap="butt" stroke-linejoin="miter"/></svg></button>
 <span style="font-size:13px;font-weight:600;text-shadow:0 1px 3px rgba(0,0,0,0.55)">Discover</span>
 </div>
 
 <div style="display:flex;flex-direction:column;align-items:center;gap:14px">
-<button aria-label="Notes" class="tile" style="width:72px;height:72px;border-radius:19px;background:#d6a02f;color:#ffffff;display:flex;align-items:center;justify-content:center"><svg class="i" width="37" height="37" viewBox="0 0 24 24"><path d="M4 20l3-1L18 8l-2-2L5 17zM15 5l2-2 2 2-2 2z"></path></svg></button>
-<span style="font-size:13px;font-weight:600;text-shadow:0 1px 3px rgba(0,0,0,0.55)">Notes</span>
+<button aria-label="Okular" class="tile" style="width:72px;height:72px;border-radius:19px"><svg xmlns="http://www.w3.org/2000/svg" width="72" height="72" viewBox="0 0 64 64"><path d="M15 0h34a15 15 0 0 1 15 15v34a15 15 0 0 1 -15 15h-34a15 15 0 0 1 -15 -15v-34a15 15 0 0 1 15 -15z" fill="#1f52a3"/><path d="M15 0h34a15 15 0 0 1 15 15v30a15 15 0 0 1 -15 15h-34a15 15 0 0 1 -15 -15v-30a15 15 0 0 1 15 -15z" fill="#2b6fd6"/><path d="M15 0h34a15 15 0 0 1 15 15v13H0V15A15 15 0 0 1 15 0z" fill="#ffffff" fill-opacity="0.09"/><path d="M20 10h24a3 3 0 0 1 3 3v34a3 3 0 0 1 -3 3h-24a3 3 0 0 1 -3 -3v-34a3 3 0 0 1 3 -3z" fill="#ffffff"/><path fill-rule="evenodd" d="M35 14c-8 6-10 18-3 31-2-11 0-21 7-29z" fill="#2b6fd6"/><path d="M14 36a6 4.2 0 1 0 12 0a6 4.2 0 1 0-12 0M33 34a6 4.2 0 1 0 12 0a6 4.2 0 1 0-12 0M26 35.5c2-1.5 5-1.5 7-1M45 33.5l5-2" fill="none" stroke="#1b2031" stroke-width="2.4" stroke-linecap="round" stroke-linejoin="round"/><path d="M35 14c-8 6-10 18-3 31-2-11 0-21 7-29z" fill="url(#pf-sheen)" fill-rule="evenodd"/><path d="M15 0.5h34a14.5 14.5 0 0 1 14.5 14.5v34a14.5 14.5 0 0 1 -14.5 14.5h-34a14.5 14.5 0 0 1 -14.5 -14.5v-34a14.5 14.5 0 0 1 14.5 -14.5z" fill="none" stroke="#ffffff" stroke-opacity="0.14" stroke-width="1" stroke-linecap="butt" stroke-linejoin="miter"/></svg></button>
+<span style="font-size:13px;font-weight:600;text-shadow:0 1px 3px rgba(0,0,0,0.55)">Okular</span>
 </div>
 
 <div style="display:flex;flex-direction:column;align-items:center;gap:14px">
-<button aria-label="Weather" class="tile" style="width:72px;height:72px;border-radius:19px;background:#5a9fd6;color:#ffffff;display:flex;align-items:center;justify-content:center"><svg class="i" width="37" height="37" viewBox="0 0 24 24"><path d="M7 18h10a4 4 0 0 0 0-8a6 6 0 0 0-11.5 1.5A3.3 3.3 0 0 0 7 18z"></path></svg></button>
+<button aria-label="Weather" class="tile" style="width:72px;height:72px;border-radius:19px"><svg xmlns="http://www.w3.org/2000/svg" width="72" height="72" viewBox="0 0 64 64"><path d="M15 0h34a15 15 0 0 1 15 15v34a15 15 0 0 1 -15 15h-34a15 15 0 0 1 -15 -15v-34a15 15 0 0 1 15 -15z" fill="#2a5ea8"/><path d="M15 0h34a15 15 0 0 1 15 15v30a15 15 0 0 1 -15 15h-34a15 15 0 0 1 -15 -15v-30a15 15 0 0 1 15 -15z" fill="#3a7bd5"/><path d="M15 0h34a15 15 0 0 1 15 15v13H0V15A15 15 0 0 1 15 0z" fill="#ffffff" fill-opacity="0.09"/><path d="M18 23a9 9 0 1 0 18 0a9 9 0 1 0 -18 0z" fill="#f7c948"/><path fill-rule="evenodd" d="M22 46h21a8 8 0 0 0 1.2-15.9A10.5 10.5 0 0 0 24 31.5a7.3 7.3 0 0 0-2 14.5z" fill="#ffffff"/><path d="M27 9.5v-2M17.5 13.5l-1.5-1.5M36.5 13.5l1.5-1.5M13.5 23h-2" fill="none" stroke="#f7c948" stroke-width="2.5" stroke-linecap="round" stroke-linejoin="round"/><path d="M15 0.5h34a14.5 14.5 0 0 1 14.5 14.5v34a14.5 14.5 0 0 1 -14.5 14.5h-34a14.5 14.5 0 0 1 -14.5 -14.5v-34a14.5 14.5 0 0 1 14.5 -14.5z" fill="none" stroke="#ffffff" stroke-opacity="0.14" stroke-width="1" stroke-linecap="butt" stroke-linejoin="miter"/></svg></button>
 <span style="font-size:13px;font-weight:600;text-shadow:0 1px 3px rgba(0,0,0,0.55)">Weather</span>
 </div>
 
 </div>
-
 <!-- The cards on page 1 (the containment's widgets), in the columns the grid leaves -->
 <div style="position:absolute;left:1226px;top:56px;width:192px;display:flex;flex-direction:column;gap:12px">
 <div aria-label="Weather widget" style="box-sizing:border-box;padding:14px 16px;border-radius:18px;background:rgba(14,18,34,0.52);backdrop-filter:blur(24px);-webkit-backdrop-filter:blur(24px);border:1px solid rgba(255,255,255,0.1);display:flex;flex-direction:column;gap:6px">
@@ -193,21 +193,21 @@ a{color:#8ab8ff}a:hover{color:#b9d4ff}
 <button aria-label="Overview" style="width:48px;height:48px;border-radius:13px;display:flex;align-items:center;justify-content:center;background:rgba(255,255,255,0.08);color:#e8ebf4"><svg class="i" width="24" height="24" viewBox="0 0 24 24"><path d="M4 5h11a1 1 0 0 1 1 1v8a1 1 0 0 1-1 1H4a1 1 0 0 1-1-1V6a1 1 0 0 1 1-1zM8 19h12a1 1 0 0 0 1-1V9"></path></svg></button>
 <span style="width:1px;height:36px;margin:0 4px 6px;background:rgba(255,255,255,0.16)"></span>
 <div style="position:relative;display:flex;flex-direction:column;align-items:center">
-<button aria-label="Files" style="display:block;width:54px;height:54px;border-radius:15px;filter:drop-shadow(0 3px 6px rgba(0,0,0,0.35));background:#3f7fe0;color:#ffffff;display:flex;align-items:center;justify-content:center"><svg class="i" width="28" height="28" viewBox="0 0 24 24"><path d="M3 7.5A2 2 0 0 1 5 5.5h4l2 2h8a2 2 0 0 1 2 2v8a2 2 0 0 1-2 2H5a2 2 0 0 1-2-2z"></path></svg></button>
+<button aria-label="Dolphin" style="display:block;width:54px;height:54px;filter:drop-shadow(0 3px 6px rgba(0,0,0,0.35))"><svg xmlns="http://www.w3.org/2000/svg" width="54" height="54" viewBox="0 0 64 64"><path d="M15 0h34a15 15 0 0 1 15 15v34a15 15 0 0 1 -15 15h-34a15 15 0 0 1 -15 -15v-34a15 15 0 0 1 15 -15z" fill="#2b5db5"/><path d="M15 0h34a15 15 0 0 1 15 15v30a15 15 0 0 1 -15 15h-34a15 15 0 0 1 -15 -15v-30a15 15 0 0 1 15 -15z" fill="#3f7fe0"/><path d="M15 0h34a15 15 0 0 1 15 15v13H0V15A15 15 0 0 1 15 0z" fill="#ffffff" fill-opacity="0.09"/><path d="M13 19a4 4 0 0 1 4-4h9l4 4h17a4 4 0 0 1 4 4v19H13z" fill="#bcd4ff"/><path fill-rule="evenodd" d="M17 24h30a4 4 0 0 1 4 4v14a4 4 0 0 1 -4 4h-30a4 4 0 0 1 -4 -4v-14a4 4 0 0 1 4 -4z" fill="#ffffff"/><path fill-rule="evenodd" d="M16.5 44.5c3-7 10-11.5 18.5-12.5 4-.4 7.5.3 10.5 1.6l4.5-.4-3.4 2.8c-4.4-.7-9 0-13 2-3.6 1.8-6.5 4.4-8.5 7.4l-1.9-3.4c-2.4 1.5-4.6 2.3-6.7 2.5zM31.5 32.6l3.6-5.6 2.8 5.1zM37 37.2l-1.8 4.6 5.6-4.1z" fill="#3f7fe0"/><path d="M16.5 44.5c3-7 10-11.5 18.5-12.5 4-.4 7.5.3 10.5 1.6l4.5-.4-3.4 2.8c-4.4-.7-9 0-13 2-3.6 1.8-6.5 4.4-8.5 7.4l-1.9-3.4c-2.4 1.5-4.6 2.3-6.7 2.5zM31.5 32.6l3.6-5.6 2.8 5.1zM37 37.2l-1.8 4.6 5.6-4.1z" fill="url(#pf-sheen)" fill-rule="evenodd"/><path d="M15 0.5h34a14.5 14.5 0 0 1 14.5 14.5v34a14.5 14.5 0 0 1 -14.5 14.5h-34a14.5 14.5 0 0 1 -14.5 -14.5v-34a14.5 14.5 0 0 1 14.5 -14.5z" fill="none" stroke="#ffffff" stroke-opacity="0.14" stroke-width="1" stroke-linecap="butt" stroke-linejoin="miter"/></svg></button>
 <span style="position:absolute;bottom:-9px;height:4px;border-radius:2px;width:16px;background:#8ab8ff"></span>
 </div>
 <div style="position:relative;display:flex;flex-direction:column;align-items:center">
-<button aria-label="Browser" style="display:block;width:62px;height:62px;border-radius:17px;filter:drop-shadow(0 3px 6px rgba(0,0,0,0.35));background:#e8743b;color:#ffffff;display:flex;align-items:center;justify-content:center"><svg class="i" width="32" height="32" viewBox="0 0 24 24"><path d="M3 12a9 9 0 1 0 18 0a9 9 0 1 0-18 0M3 12h18M12 3c3 3.5 3 14.5 0 18M12 3c-3 3.5-3 14.5 0 18"></path></svg></button>
+<button aria-label="Firefox" style="display:block;width:62px;height:62px;filter:drop-shadow(0 3px 6px rgba(0,0,0,0.35))"><svg xmlns="http://www.w3.org/2000/svg" width="62" height="62" viewBox="0 0 64 64"><path d="M15 0h34a15 15 0 0 1 15 15v34a15 15 0 0 1 -15 15h-34a15 15 0 0 1 -15 -15v-34a15 15 0 0 1 15 -15z" fill="#3e1e70"/><path d="M15 0h34a15 15 0 0 1 15 15v30a15 15 0 0 1 -15 15h-34a15 15 0 0 1 -15 -15v-30a15 15 0 0 1 15 -15z" fill="#5a2ca0"/><path d="M15 0h34a15 15 0 0 1 15 15v13H0V15A15 15 0 0 1 15 0z" fill="#ffffff" fill-opacity="0.09"/><path d="M20.5 31a12.5 12.5 0 1 0 25 0a12.5 12.5 0 1 0 -25 0z" fill="#8f63e8"/><path fill-rule="evenodd" d="M13.5 31a18.5 18.5 0 1 0 37 0a18.5 18.5 0 1 0 -37 0zM24.5 25a13.5 13.5 0 1 0 27 0a13.5 13.5 0 1 0 -27 0z" fill="#ff8a1f"/><path fill-rule="evenodd" d="M44 17.5l3.5-9 2.5 11zM18 39c3 5 8 8 14 8.5-7 1-13-2-16-6z" fill="#ffc23d"/><path d="M15 0.5h34a14.5 14.5 0 0 1 14.5 14.5v34a14.5 14.5 0 0 1 -14.5 14.5h-34a14.5 14.5 0 0 1 -14.5 -14.5v-34a14.5 14.5 0 0 1 14.5 -14.5z" fill="none" stroke="#ffffff" stroke-opacity="0.14" stroke-width="1" stroke-linecap="butt" stroke-linejoin="miter"/></svg></button>
 <span style="position:absolute;bottom:-9px;height:4px;border-radius:2px;width:5px;background:rgba(255,255,255,0.6)"></span>
 </div>
 <div style="position:relative;display:flex;flex-direction:column;align-items:center">
-<button aria-label="Terminal" style="display:block;width:54px;height:54px;border-radius:15px;filter:drop-shadow(0 3px 6px rgba(0,0,0,0.35));background:#23293d;color:#e8ebf4;display:flex;align-items:center;justify-content:center"><svg class="i" width="28" height="28" viewBox="0 0 24 24"><path d="M6 8l4 4-4 4M13 16h5"></path></svg></button>
+<button aria-label="Konsole" style="display:block;width:54px;height:54px;filter:drop-shadow(0 3px 6px rgba(0,0,0,0.35))"><svg xmlns="http://www.w3.org/2000/svg" width="54" height="54" viewBox="0 0 64 64"><path d="M15 0h34a15 15 0 0 1 15 15v34a15 15 0 0 1 -15 15h-34a15 15 0 0 1 -15 -15v-34a15 15 0 0 1 15 -15z" fill="#131726"/><path d="M15 0h34a15 15 0 0 1 15 15v30a15 15 0 0 1 -15 15h-34a15 15 0 0 1 -15 -15v-30a15 15 0 0 1 15 -15z" fill="#262c42"/><path d="M15 0h34a15 15 0 0 1 15 15v13H0V15A15 15 0 0 1 15 0z" fill="#ffffff" fill-opacity="0.09"/><path d="M32 38h10a2 2 0 0 1 2 2v0a2 2 0 0 1 -2 2h-10a2 2 0 0 1 -2 -2v0a2 2 0 0 1 2 -2z" fill="#e8ebf4"/><path fill-rule="evenodd" d="M15 13a2 2 0 1 0 4 0a2 2 0 1 0 -4 0zM21 13a2 2 0 1 0 4 0a2 2 0 1 0 -4 0zM27 13a2 2 0 1 0 4 0a2 2 0 1 0 -4 0z" fill="#5d6680"/><path d="M18 25l8 7-8 7" fill="none" stroke="#3cc4b0" stroke-width="4" stroke-linecap="round" stroke-linejoin="round"/><path d="M15 0.5h34a14.5 14.5 0 0 1 14.5 14.5v34a14.5 14.5 0 0 1 -14.5 14.5h-34a14.5 14.5 0 0 1 -14.5 -14.5v-34a14.5 14.5 0 0 1 14.5 -14.5z" fill="none" stroke="#ffffff" stroke-opacity="0.14" stroke-width="1" stroke-linecap="butt" stroke-linejoin="miter"/></svg></button>
 </div>
 <div style="position:relative;display:flex;flex-direction:column;align-items:center">
-<button aria-label="Mail" style="display:block;width:48px;height:48px;border-radius:13px;filter:drop-shadow(0 3px 6px rgba(0,0,0,0.35));background:#1f9e8f;color:#ffffff;display:flex;align-items:center;justify-content:center"><svg class="i" width="25" height="25" viewBox="0 0 24 24"><path d="M5 5h14a2 2 0 0 1 2 2v10a2 2 0 0 1-2 2H5a2 2 0 0 1-2-2V7a2 2 0 0 1 2-2zM3.5 7.5l8.5 6 8.5-6"></path></svg></button>
+<button aria-label="KMail" style="display:block;width:48px;height:48px;filter:drop-shadow(0 3px 6px rgba(0,0,0,0.35))"><svg xmlns="http://www.w3.org/2000/svg" width="48" height="48" viewBox="0 0 64 64"><path d="M15 0h34a15 15 0 0 1 15 15v34a15 15 0 0 1 -15 15h-34a15 15 0 0 1 -15 -15v-34a15 15 0 0 1 15 -15z" fill="#2152ad"/><path d="M15 0h34a15 15 0 0 1 15 15v30a15 15 0 0 1 -15 15h-34a15 15 0 0 1 -15 -15v-30a15 15 0 0 1 15 -15z" fill="#2f6fdf"/><path d="M15 0h34a15 15 0 0 1 15 15v13H0V15A15 15 0 0 1 15 0z" fill="#ffffff" fill-opacity="0.09"/><path d="M22 10h20a3 3 0 0 1 3 3v18a3 3 0 0 1 -3 3h-20a3 3 0 0 1 -3 -3v-18a3 3 0 0 1 3 -3z" fill="#bcd4ff"/><path fill-rule="evenodd" d="M16 24h32a4 4 0 0 1 4 4v14a4 4 0 0 1 -4 4h-32a4 4 0 0 1 -4 -4v-14a4 4 0 0 1 4 -4z" fill="#ffffff"/><path d="M14.5 26.5 32 38l17.5-11.5M27 15l5 4-5 4" fill="none" stroke="#2f6fdf" stroke-width="3" stroke-linecap="round" stroke-linejoin="round"/><path d="M14.5 26.5 32 38l17.5-11.5M27 15l5 4-5 4" fill="none" stroke="url(#pf-sheen)" stroke-width="3" stroke-linecap="round" stroke-linejoin="round"/><path d="M15 0.5h34a14.5 14.5 0 0 1 14.5 14.5v34a14.5 14.5 0 0 1 -14.5 14.5h-34a14.5 14.5 0 0 1 -14.5 -14.5v-34a14.5 14.5 0 0 1 14.5 -14.5z" fill="none" stroke="#ffffff" stroke-opacity="0.14" stroke-width="1" stroke-linecap="butt" stroke-linejoin="miter"/></svg></button>
 </div>
 <div style="position:relative;display:flex;flex-direction:column;align-items:center">
-<button aria-label="Settings" style="display:block;width:48px;height:48px;border-radius:13px;filter:drop-shadow(0 3px 6px rgba(0,0,0,0.35));background:#5b6478;color:#ffffff;display:flex;align-items:center;justify-content:center"><svg class="i" width="25" height="25" viewBox="0 0 24 24"><path d="M9 12a3 3 0 1 0 6 0a3 3 0 1 0-6 0M12 2.5v3M12 18.5v3M2.5 12h3M18.5 12h3M5.3 5.3l2.1 2.1M16.6 16.6l2.1 2.1M5.3 18.7l2.1-2.1M16.6 7.4l2.1-2.1"></path></svg></button>
+<button aria-label="System Settings" style="display:block;width:48px;height:48px;filter:drop-shadow(0 3px 6px rgba(0,0,0,0.35))"><svg xmlns="http://www.w3.org/2000/svg" width="48" height="48" viewBox="0 0 64 64"><path d="M15 0h34a15 15 0 0 1 15 15v34a15 15 0 0 1 -15 15h-34a15 15 0 0 1 -15 -15v-34a15 15 0 0 1 15 -15z" fill="#262b38"/><path d="M15 0h34a15 15 0 0 1 15 15v30a15 15 0 0 1 -15 15h-34a15 15 0 0 1 -15 -15v-30a15 15 0 0 1 15 -15z" fill="#3b4255"/><path d="M15 0h34a15 15 0 0 1 15 15v13H0V15A15 15 0 0 1 15 0z" fill="#ffffff" fill-opacity="0.09"/><path d="M15.25 20h33.5a2.25 2.25 0 0 1 2.25 2.25v0a2.25 2.25 0 0 1 -2.25 2.25h-33.5a2.25 2.25 0 0 1 -2.25 -2.25v0a2.25 2.25 0 0 1 2.25 -2.25zM15.25 35h33.5a2.25 2.25 0 0 1 2.25 2.25v0a2.25 2.25 0 0 1 -2.25 2.25h-33.5a2.25 2.25 0 0 1 -2.25 -2.25v0a2.25 2.25 0 0 1 2.25 -2.25z" fill="#6b7490"/><path fill-rule="evenodd" d="M15.25 20h19.5a2.25 2.25 0 0 1 2.25 2.25v0a2.25 2.25 0 0 1 -2.25 2.25h-19.5a2.25 2.25 0 0 1 -2.25 -2.25v0a2.25 2.25 0 0 1 2.25 -2.25zM15.25 35h6.5a2.25 2.25 0 0 1 2.25 2.25v0a2.25 2.25 0 0 1 -2.25 2.25h-6.5a2.25 2.25 0 0 1 -2.25 -2.25v0a2.25 2.25 0 0 1 2.25 -2.25z" fill="#5b9dff"/><path fill-rule="evenodd" d="M31.5 22.25a5.5 5.5 0 1 0 11 0a5.5 5.5 0 1 0 -11 0zM18.5 37.25a5.5 5.5 0 1 0 11 0a5.5 5.5 0 1 0 -11 0z" fill="#ffffff"/><path d="M15 0.5h34a14.5 14.5 0 0 1 14.5 14.5v34a14.5 14.5 0 0 1 -14.5 14.5h-34a14.5 14.5 0 0 1 -14.5 -14.5v-34a14.5 14.5 0 0 1 14.5 -14.5z" fill="none" stroke="#ffffff" stroke-opacity="0.14" stroke-width="1" stroke-linecap="butt" stroke-linejoin="miter"/></svg></button>
 <span style="position:absolute;bottom:-9px;height:4px;border-radius:2px;width:16px;background:#8ab8ff"></span>
 </div>
 <span style="width:1px;height:36px;margin:0 4px 6px;background:rgba(255,255,255,0.16)"></span>
